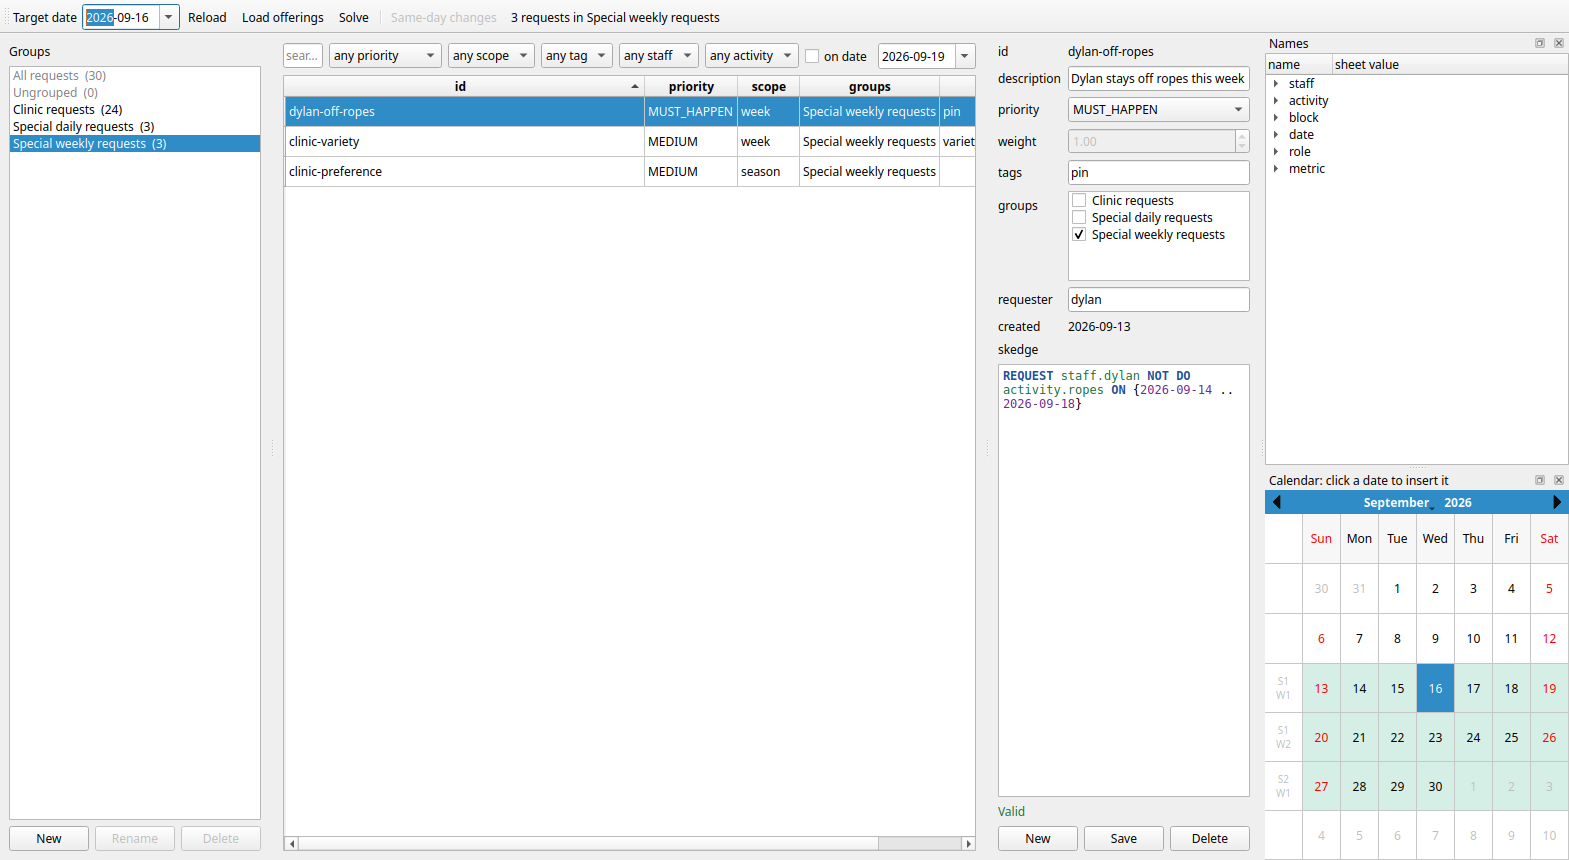
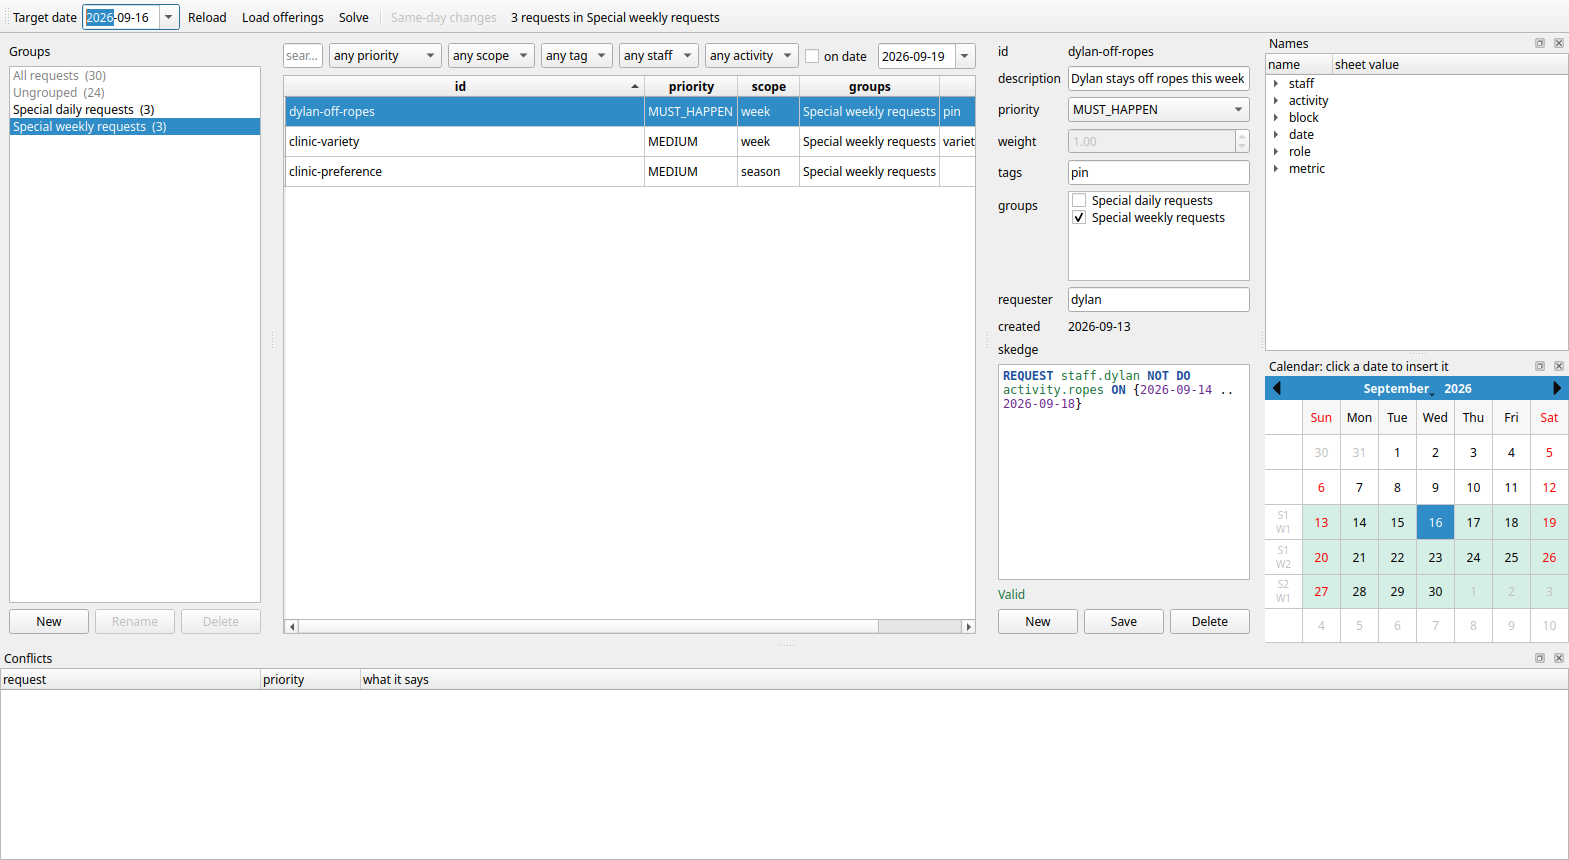
Show the conflicts pane in the docs
Claude-Session: https://claude.ai/code/session_01Djy4X5MxHRgMHjkLQ8C7QD

diff --git a/docs/app.md b/docs/app.md
@@ -75,6 +75,8 @@ both. Double-click one to open it in the editor.
 | Asked to be free and to be busy | `FREE` beside `NOT FREE` in one block |
 | Two things at once that do not fit | two `FOR` tasks whose minutes exceed the block, or two clinics in one block |
 
+![The conflicts pane](img/conflicts.png)
+
 It reads only what is **settled**. `REQUEST ANY_1_OF staff.all DO …`, `DURING ANY_2_OF
 block.all` and every `PREFER` leave the solver room to move, and moving things around each
 other is its job, so they are never reported. What is left is worth looking at: a request

diff --git a/docs/technical-outline.md b/docs/technical-outline.md
@@ -693,7 +693,6 @@ Recorded so the outline matches the code.
   the declaration's tier afterwards, where `_collapse` cannot see them. `PREFER` in a
   `MUST_HAPPEN` declaration is still refused — there is no tier above the hard one to weigh
   it in.
-
 - **Conflicts are found without solving** (Puppet Master, 2026-09-18). `app/conflicts.py`
   reads the resolved copies the store already keeps and turns every *forced* statement into
   a claim on a slot — one staff member, one date, one block. A statement is forced when it
